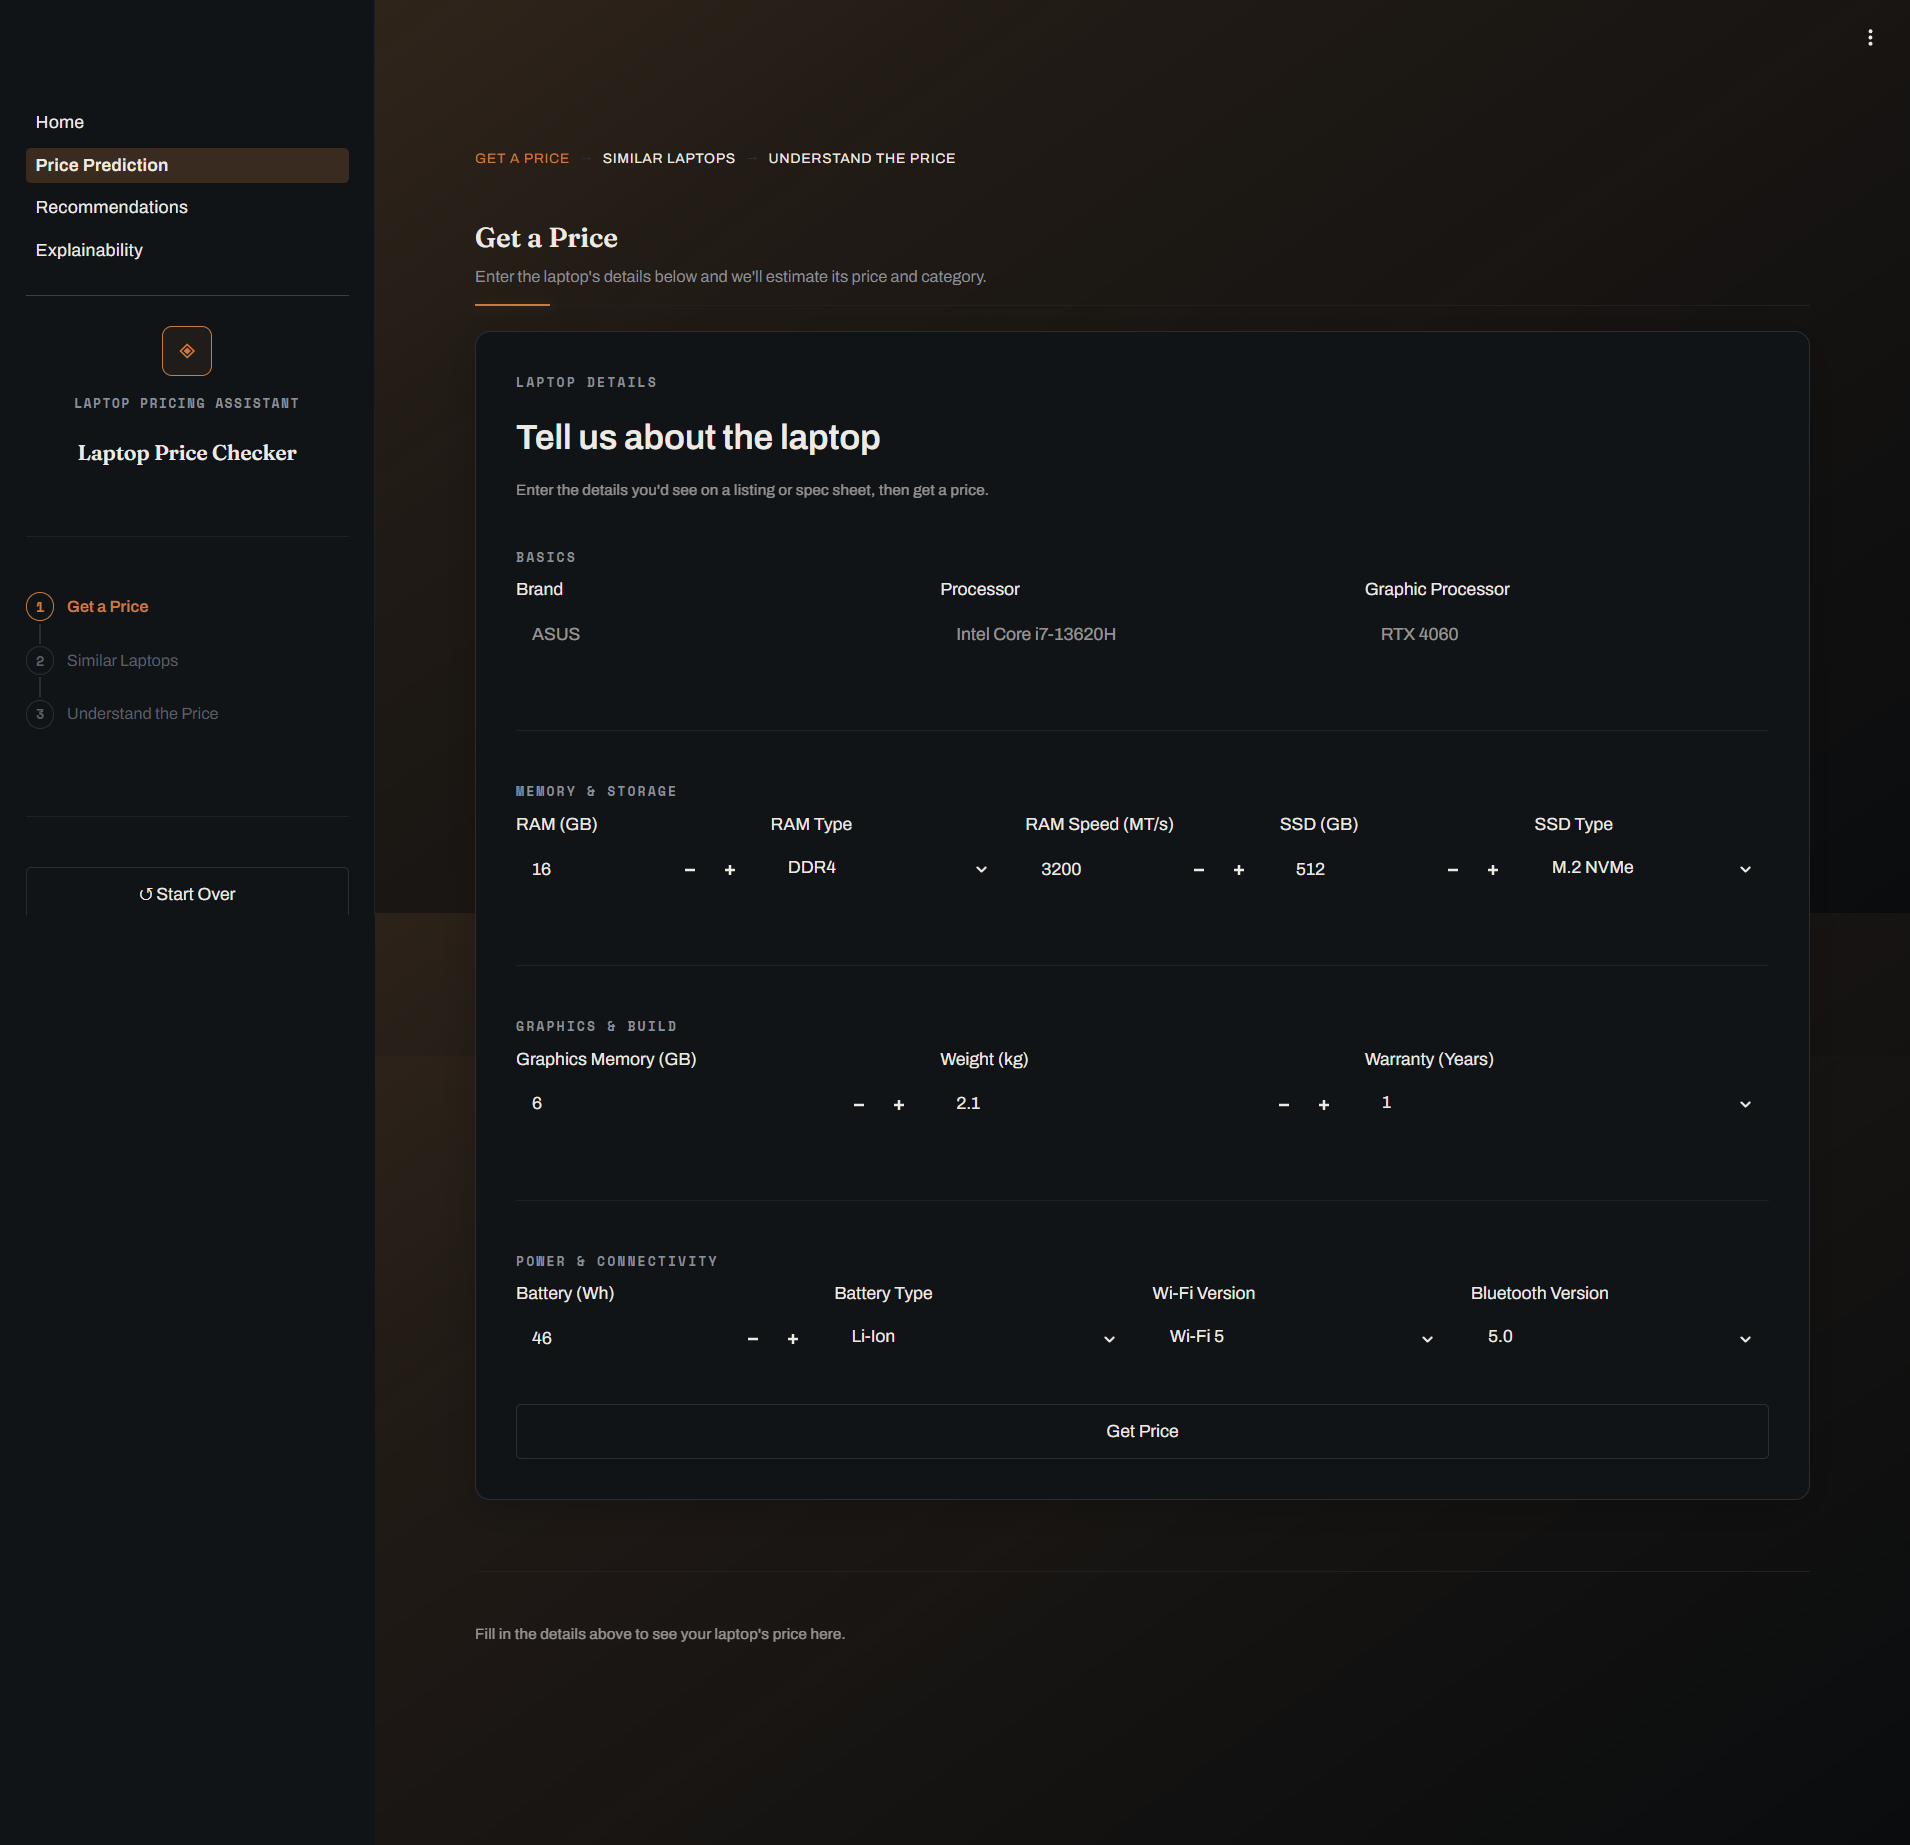
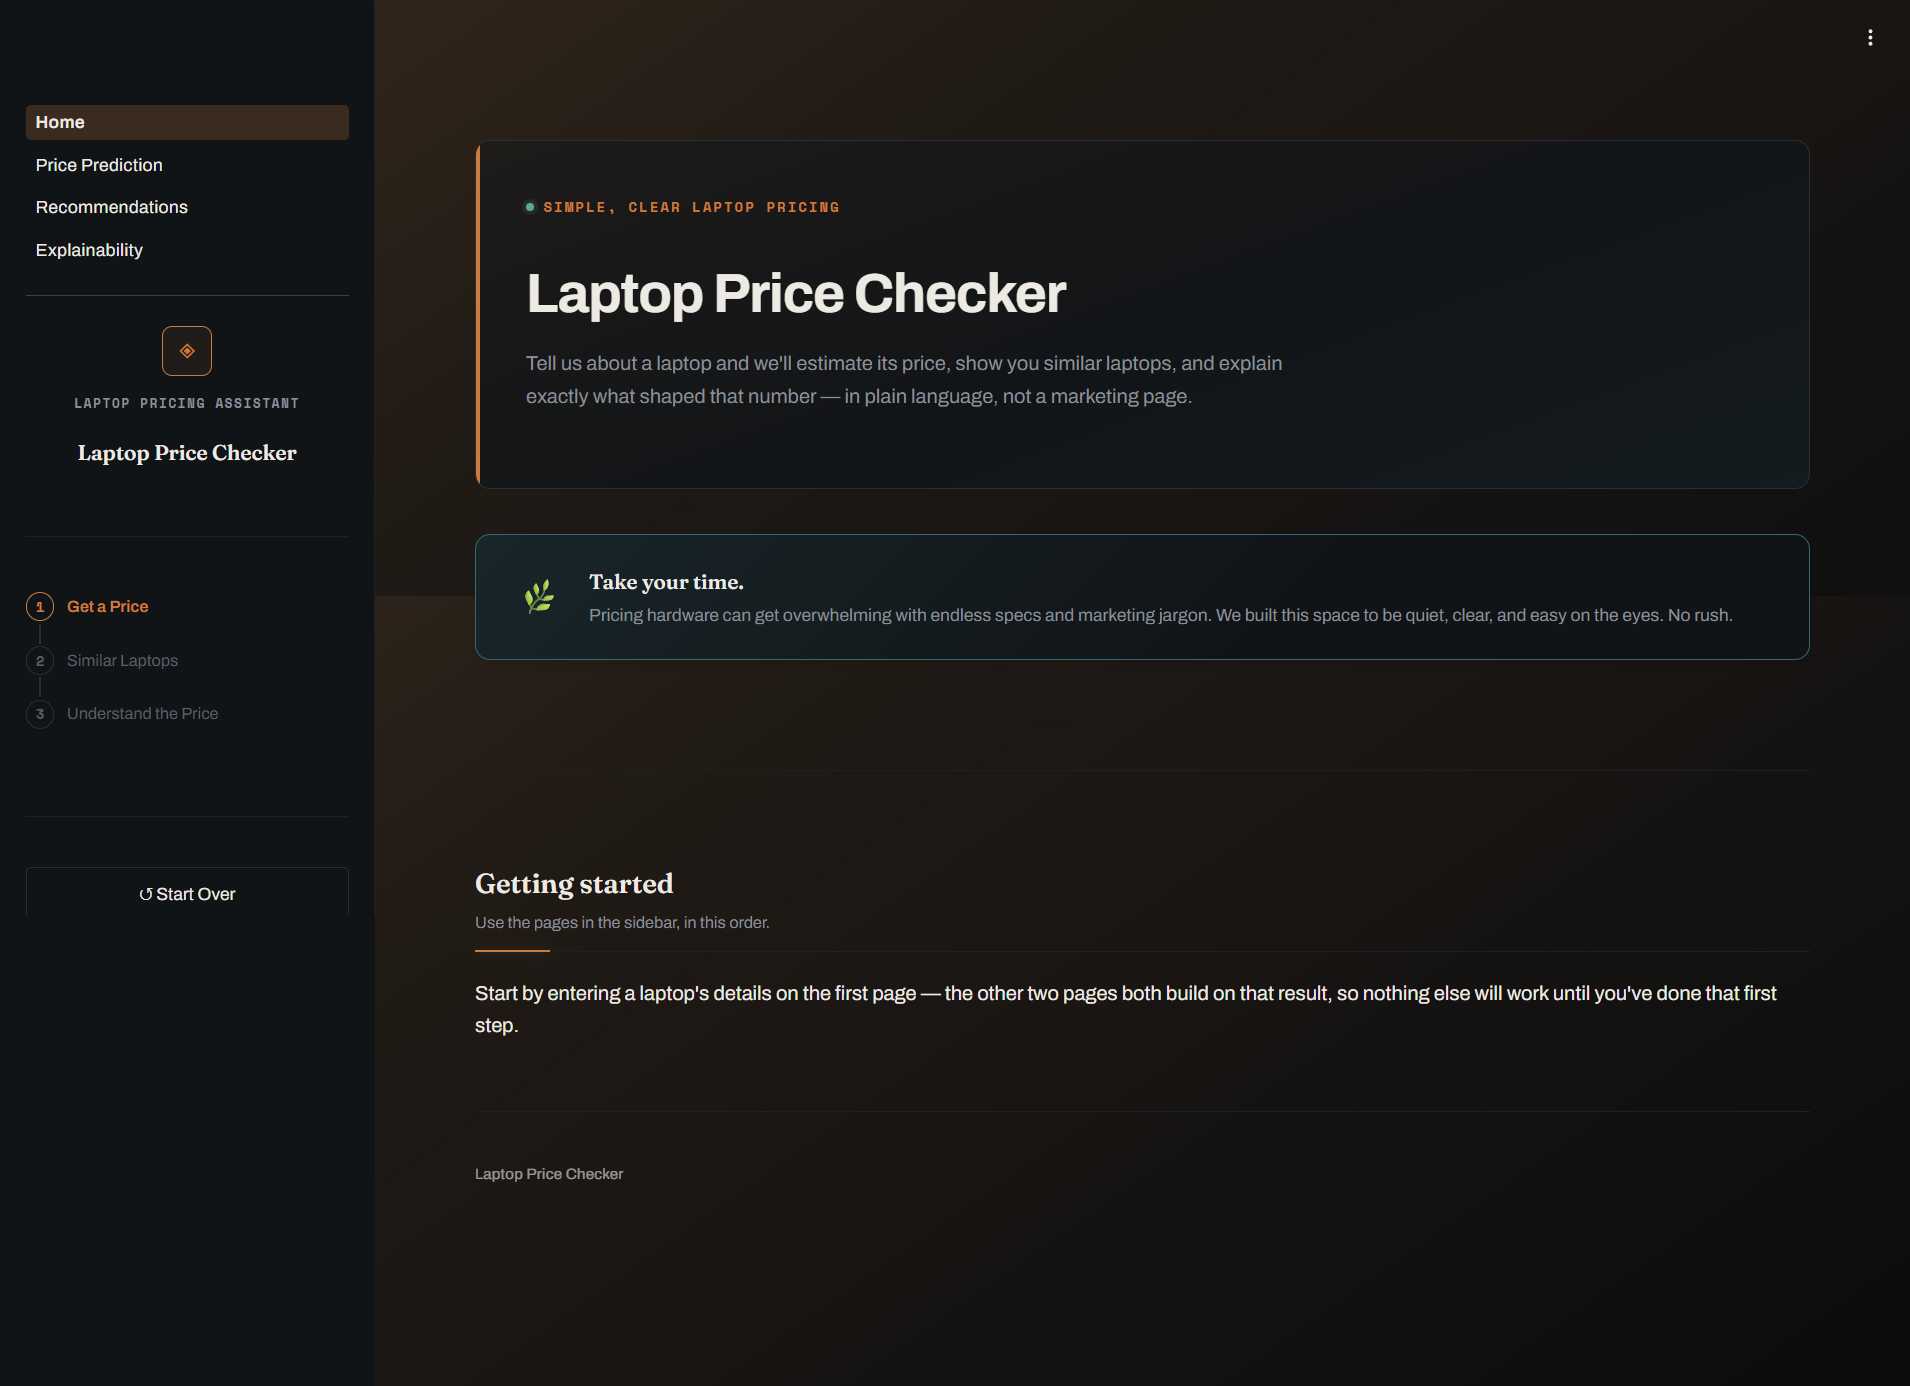
updated readme

diff --git a/README.md b/README.md
@@ -323,7 +323,7 @@ K.R. Mangalam University
 GitHub: https://github.com/Dhruv-Jaiswalesc
 
 <p align="center">
-    <img src="ss.png">
+    <img src="">
 </p>
 <p align="center">
     <img src="ss2.png">